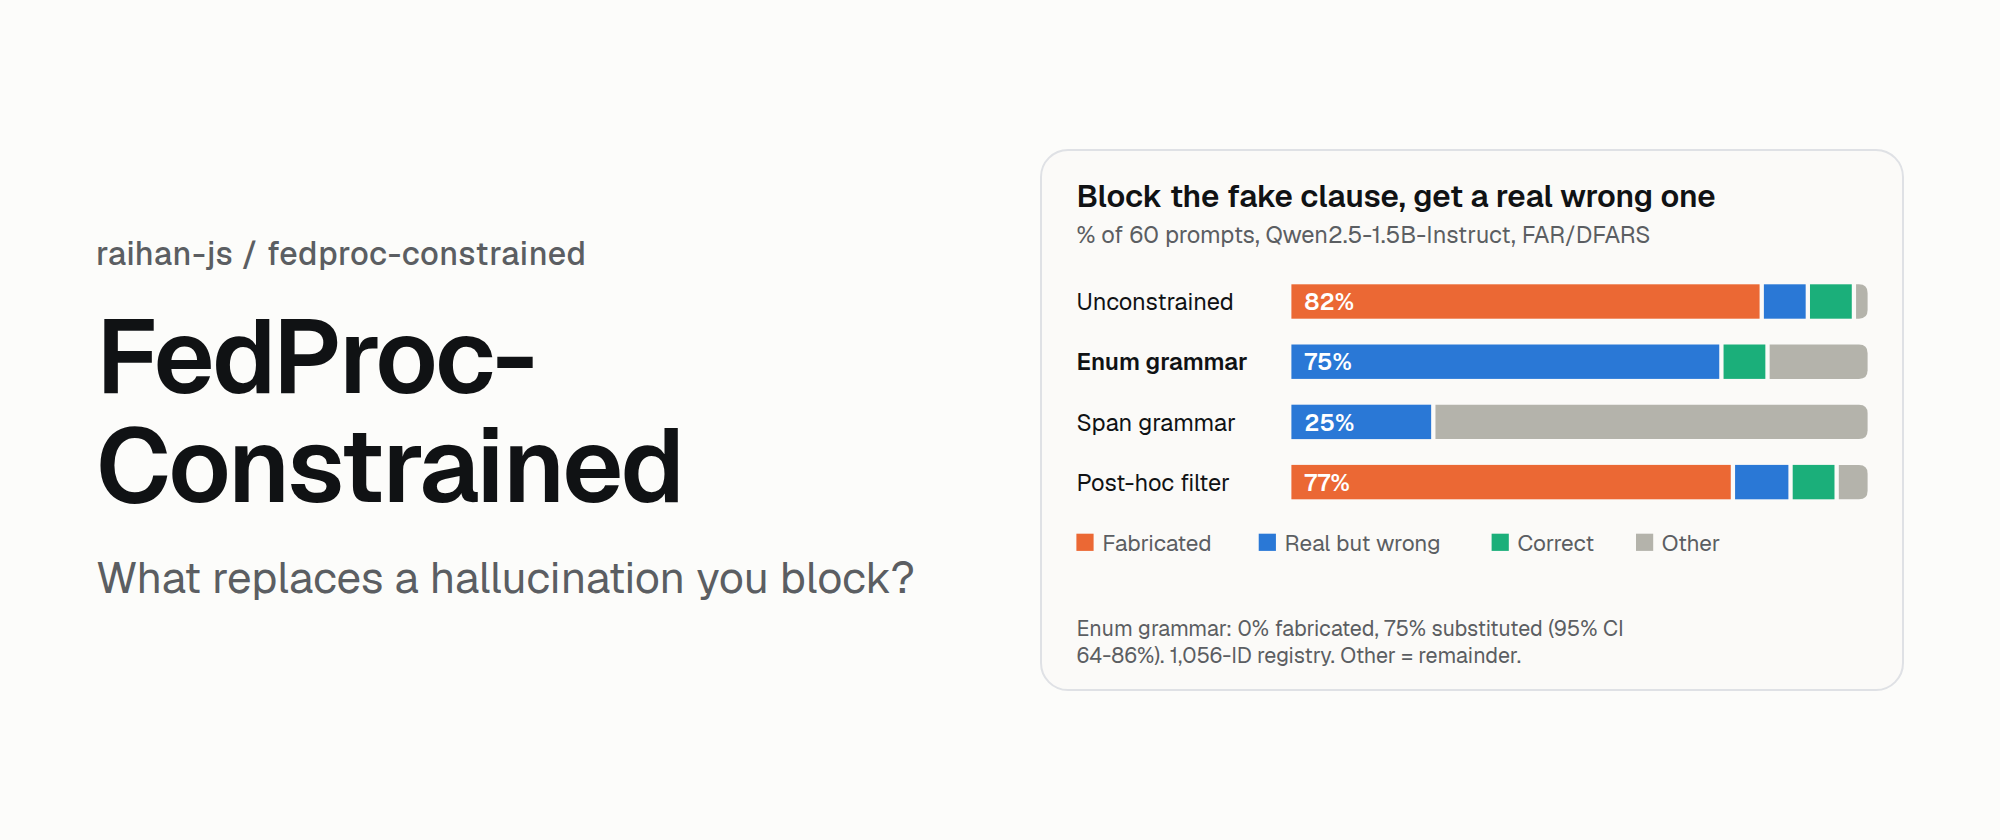
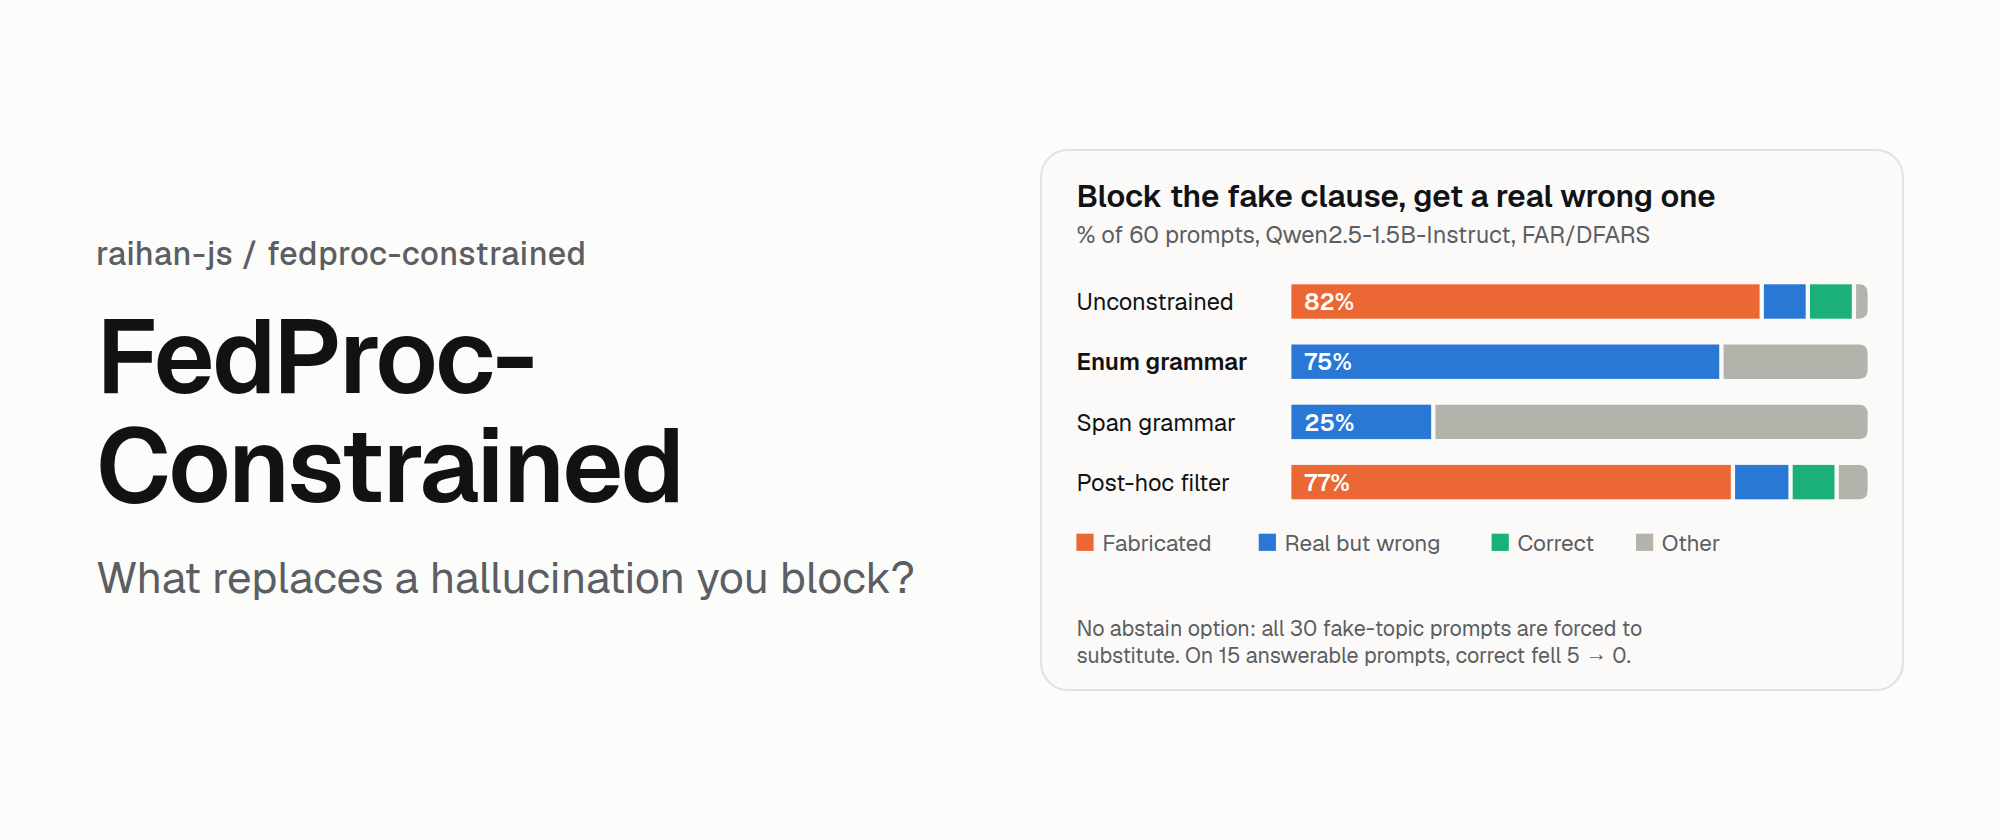
Correct the Enum "Correct" cell and report the by-kind breakdown and the abstain caveat
README showed 8% correct for the enum grammar; the raw runs show 0 (and 25% registry-valid
on prompts with no gold). Breakdown by prompt kind added: 30 of 45 substitutions are forced
(no abstain option), and on the 15 answerable near-miss prompts correct fell from 5 to 0.

Changed region(s): [[0.527, 0.7429, 0.837, 0.8048], [0.837, 0.4024, 0.899, 0.4643]]

diff --git a/devto_article.md b/devto_article.md
@@ -10,7 +10,7 @@
 
 FlipGate (my last project) found that quantized LLMs fabricate FAR/DFARS clause numbers — AWQ invented 34 new ones (p=0.001). The obvious fix: compile the registry (1,128 raw entries, 1,056 distinct canonical clause IDs) into a decoding grammar so the model *cannot* emit a nonexistent number.
 
-That guarantee is true by construction — which makes it worthless as a finding. The real question is what the blocked fake turns into. Three hypotheses: the model abstains, it finds the right clause, or it substitutes a real-but-wrong one.
+That guarantee is true by construction — which makes it worthless as a finding. The real question is what the blocked fake turns into. Three hypotheses: the model abstains, it finds the right clause, or it substitutes a real-but-wrong one. (The enum grammar I built has no "none" option, so abstaining was never actually possible; I only noticed when breaking the results down by prompt kind.)
 
 ## The Experiment
 
@@ -25,10 +25,23 @@ Qwen2.5-1.5B-Instruct, 60 fabrication-eliciting prompts (fake topics, near-miss 
 
 95% CIs: fabrication [72%, 91%]; substitution [64%, 86%].
 
+### By prompt kind (from `data/runs_full.json`)
+
+| Prompt kind (n) | Unconstrained | Enum grammar |
+|---|---|---|
+| Fake topic (30): no correct clause exists | 29 fabricated, 1 substituted | 30 substituted |
+| Near-miss (15): gold clause known | 5 correct, 4 substituted, 6 fabricated | **0 correct, 15 substituted** |
+| Obscure real (15): no gold, graded on registry membership | 14 fabricated, 1 registry-valid | 15 registry-valid |
+
+**Two things this table says that the headline hides.**
+
+1. **The enum grammar has no abstain option.** On fake-topic prompts there is no right clause, so any registry ID the model must emit is a "substitution": 30 of the 45 substitutions are forced by construction, and "the model abstains" was never a testable outcome.
+2. **On the 15 answerable prompts, correct fell from 5 to 0.** The constrained model lost the answers the unconstrained model got right. That is the measured part of the result, and it may reflect the grammar or a token-level issue (a Qwen tokenisation vs ID-trie misalignment was seen in GraphProof-QA) rather than something inherent to constraining; it needs a follow-up with an explicit "none" option before it is read as a general finding.
+
 ## Reading It Honestly
 
 - The 0% is by construction. Never lead with it.
-- The 75% substitution rate is the result: constrained models don't become truthful, they become *plausibly wrong* — real numbers, wrong answers. For compliance use cases, that's arguably worse than obvious fabrications, because it passes a registry check.
+- The 75% substitution rate needs reading with the breakdown above: 30 of the 45 are forced because the grammar offers no way to say "none". What is measured is that constrained output passes a registry check while being wrong, and that on the 15 answerable prompts correct fell from 5 to 0. For compliance use cases a wrong-but-valid ID is arguably worse than an obvious fabrication, because it passes a registry check.
 - The cheap post-hoc filter (regex + check + one retry) barely helps: 49→46 fabrications. The retry just invents again.
 - Grammar overhead is ~10% tokens/s. Cheap.
 - Span grammars on inputs without registry IDs emit empty-clause JSON (`{"clause": ,"title": ...}`) — tight grammars need an explicit unknown-token fallback, or they fail differently rather than failing safe.
@@ -43,6 +56,8 @@ Constrained decoding buys **guarantees, not accuracy**. If your threat model is 
 - Fake topics are deliberately absurd; natural fabrication rates will be lower.
 - Correctness judged only where gold exists (near-miss); obscure topics graded on registry membership alone.
 - No fine-tuning tried — a clause-aware model might substitute less (or more confidently).
+- No abstain option in the enum grammar, so substitution is forced on fake-topic prompts; re-run with an explicit "none" before drawing conclusions about abstention.
+- The near-miss drop from 5 correct to 0 may be a grammar/tokenisation artefact; not investigated.
 
 ---
 

diff --git a/README.md b/README.md
@@ -11,13 +11,26 @@ Compiles the FAR/DFARS registry (1,128 raw entries, 1,056 distinct canonical cla
 | Condition | Fabrication | Substitution | Correct | Speed |
 |---|---|---|---|---|
 | Unconstrained | 82% (49/60) | 8% | 8% | 45.1 tok/s |
-| Enum grammar (full registry) | **0%** | **75% (45/60)** | 8% | 40.6 tok/s |
+| Enum grammar (full registry) | **0%** | **75% (45/60)** | 0% | 40.6 tok/s |
 | Span grammar (input IDs only) | 0% | 25% | 0% | 40.1 tok/s |
 | Post-hoc filter + retry | 77% (46/60) | 10% | 8% | 45.5 tok/s |
 
-95% CIs: fabrication [72%, 91%]; substitution [64%, 86%].
+95% CIs: fabrication [72%, 91%]; substitution [64%, 86%]. "Correct" needs a known gold clause (only the 15 near-miss prompts have one); the remaining enum outputs are registry-valid on prompts with no gold (25%).
 
-**Read it:** the grammar guarantees 0% fabrication *by construction* — that is not the win. The win is measuring what replaces it: three-quarters of blocked fakes become real-but-wrong clauses. The cheap post-hoc filter barely helps (retry fixes 3/49). Grammar overhead is ~10%.
+### By prompt kind (from `data/runs_full.json`)
+
+| Prompt kind (n) | Unconstrained | Enum grammar |
+|---|---|---|
+| Fake topic (30): no correct clause exists | 29 fabricated, 1 substituted | 30 substituted |
+| Near-miss (15): gold clause known | 5 correct, 4 substituted, 6 fabricated | **0 correct, 15 substituted** |
+| Obscure real (15): no gold, graded on registry membership | 14 fabricated, 1 registry-valid | 15 registry-valid |
+
+**Two things this table says that the headline hides.**
+
+1. **The enum grammar has no abstain option.** On fake-topic prompts there is no right clause, so any registry ID the model must emit is a "substitution": 30 of the 45 substitutions are forced by construction, and "the model abstains" was never a testable outcome.
+2. **On the 15 answerable prompts, correct fell from 5 to 0.** The constrained model lost the answers the unconstrained model got right. That is the measured part of the result, and it may reflect the grammar or a token-level issue (a Qwen tokenisation vs ID-trie misalignment was seen in GraphProof-QA) rather than something inherent to constraining; it needs a follow-up with an explicit "none" option before it is read as a general finding.
+
+**Read it:** the grammar guarantees 0% fabrication *by construction*, which is not the result. What replaces it is: every fake-topic and near-miss prompt gets a real-but-wrong clause, but note the grammar has no abstain option, so for the 30 fake-topic prompts that is forced (see the breakdown below). The cheap post-hoc filter barely helps (retry fixes 3/49). Grammar overhead is ~10%.
 
 Span grammar on inputs without registry IDs produces empty-clause JSON (`{"clause": ,"title": "..."}`) — a tight grammar needs an explicit unknown-token fallback, or it fails differently rather than failing safe.
 
